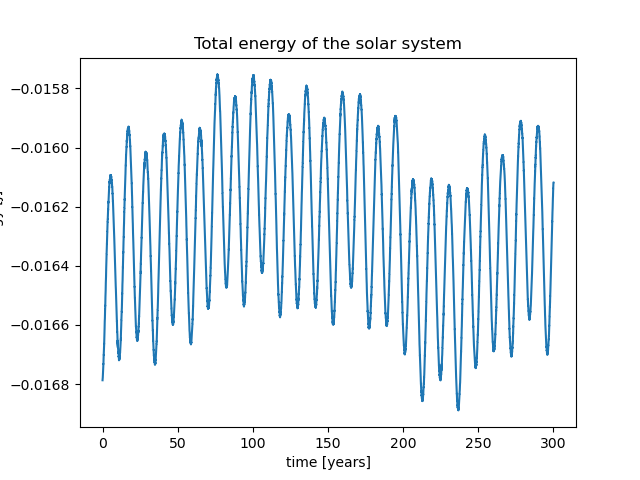
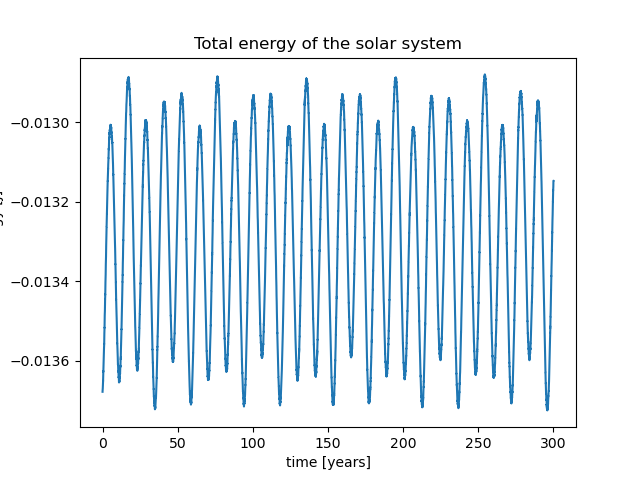
new figures

diff --git a/Project_1/whole_solarsystem_python_rnge_kutta.py b/Project_1/whole_solarsystem_python_rnge_kutta.py
@@ -71,7 +71,7 @@ for i in range(len(names)):
     else:
         mass = ("%.3g" %(masses[i]))
     print(names[i]+" & " +mass +" & "+  str(round((x[i]),2) )+ " & " + str(round((y[i]),2) )+ " & " + str(round((z[i]),2) )+ " & " + str(round((v_x[i]),2) )+ " & " + str(round((v_y[i]),2) )+ " & " + str(round((v_z[i]),2) )+ " \\\\" + "\\hline")
-"""
+
 
 W=np.zeros((len(x),6))
 
